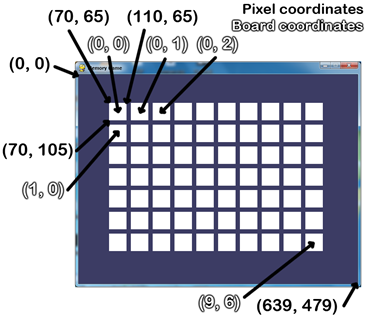
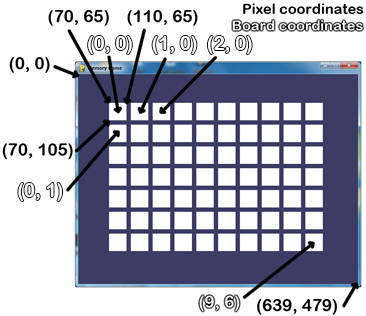
Corrected Figure 3-3 in Pygame book.

Changed region(s): [[0.3907, 0.1139, 0.6913, 0.1709], [0.0301, 0.5696, 0.1803, 0.6551], [0.2404, 0.1139, 0.3607, 0.1709]]

diff --git a/content/pygame/errata/index.html b/content/pygame/errata/index.html
@@ -10,6 +10,9 @@
 
 <p><strong>On page 23</strong>, there is the sentence, "Unfortunately, there isn’t a single function you can call that will set a single pixel to a color". Actually, there is the <code><a href="http://www.pygame.org/docs/ref/surface.html#pygame.Surface.set_at">set_at()</a></code> and <code><a href="http://www.pygame.org/docs/ref/surface.html#pygame.Surface.get_at">get_at()</a></code> methods for <code>Surface</code> objects. <em>(Thanks to Ben LeBlanc)</em></p>
 
+<h2>Chapter 3 - Memory Puzzle</h2>
+
+<p><strong>Figure 3-3</strong> has the X and Y coordinates for the box coordinates reversed. <em>(Thanks to tile ile)</em></p>
 
 <h2>Chapter 4 - Slide Puzzle</h2>
 
